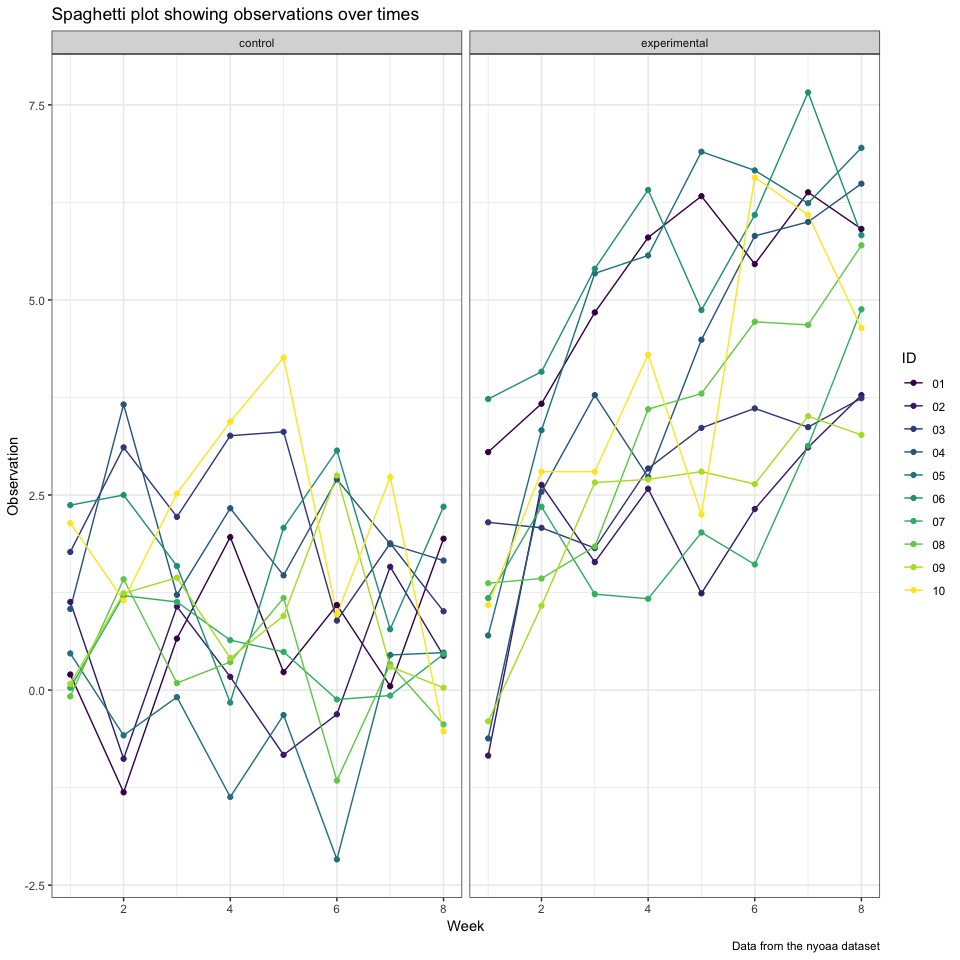
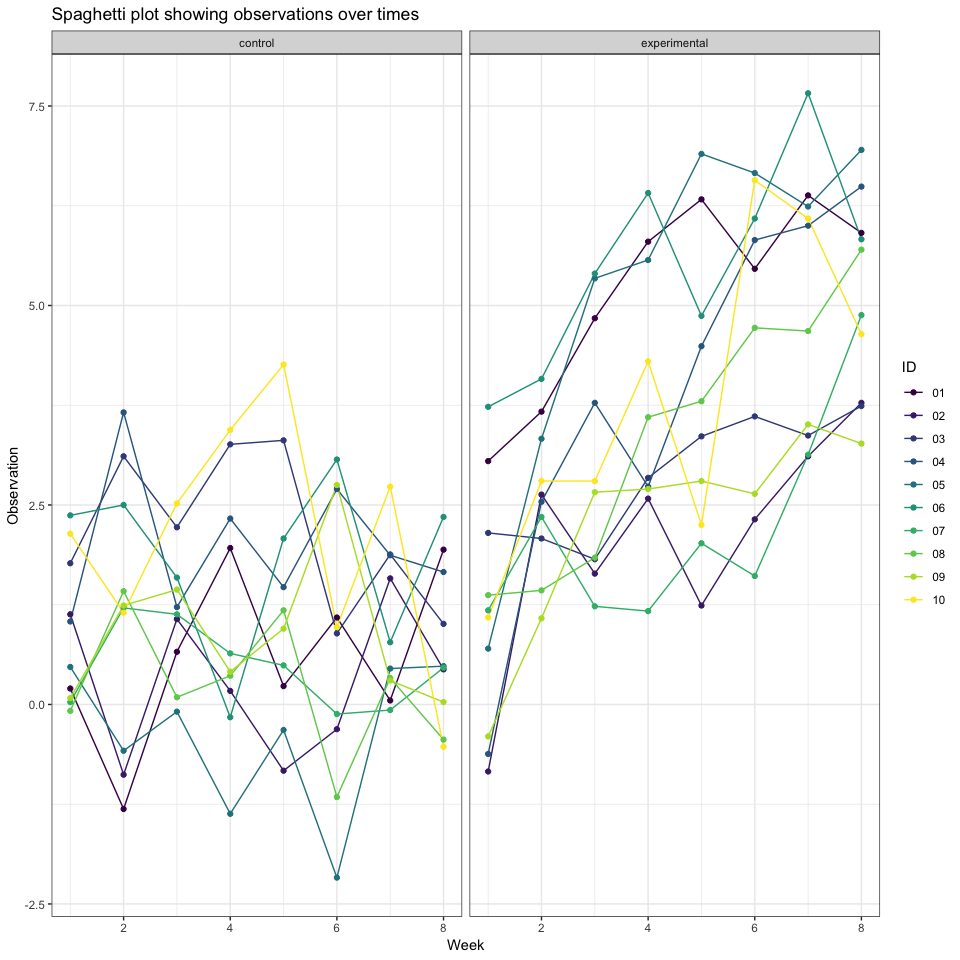
completed plot

diff --git a/hw5_deg2163.md b/hw5_deg2163.md
@@ -4,8 +4,6 @@ Diana Ballesteros Gonzalez
 11/7/2018
 
 ``` r
-knitr::opts_chunk$set(echo = TRUE)
-
 library(tidyverse)
 ```
 
@@ -21,6 +19,23 @@ library(tidyverse)
     ## ✖ dplyr::lag()    masks stats::lag()
 
 ``` r
+library(rvest)
+```
+
+    ## Loading required package: xml2
+
+    ## 
+    ## Attaching package: 'rvest'
+
+    ## The following object is masked from 'package:purrr':
+    ## 
+    ##     pluck
+
+    ## The following object is masked from 'package:readr':
+    ## 
+    ##     guess_encoding
+
+``` r
 set.seed(1)
 
 knitr::opts_chunk$set(
@@ -33,12 +48,6 @@ theme_set(theme_bw() + theme(legend.position = "bottom"))
 ```
 
 ### **Problem 1**
-
-This zip file contains data from a longitudinal study that included a control arm and an experimental arm. Data for each participant is included in a separate file, and file names include the subject ID and arm.
-
-Create a tidy dataframe containing data from all participants, including the subject ID, arm, and observations over time:
-
-Tidy the result; manipulate file names to include control arm and subject ID, make sure weekly observations are “tidy”, and do any other tidying that’s necessary Make a spaghetti plot showing observations on each subject over time, and comment on differences between groups.
 
 ``` r
 #Tidying the data
@@ -63,8 +72,7 @@ tidy_problem_1_df %>%
   labs(
     title = "Spaghetti plot showing observations over times",
     x = "Week",
-    y = "Observation",
-    caption = "Data from the nyoaa dataset"
+    y = "Observation"
   ) + 
   viridis::scale_color_viridis(
     name = "ID", 
@@ -109,125 +117,59 @@ homicide_data =
 Total number of homicides
 
 ``` r
+total_num_homicides_df = 
 homicide_data %>% 
   group_by(city_state) %>% 
-  summarize(total_num_homicides = n()) %>% 
-  knitr::kable()
+  summarize(total_num_homicides = n()) 
 ```
-
-| city\_state        |  total\_num\_homicides|
-|:-------------------|----------------------:|
-| Albuquerque, NM    |                    378|
-| Atlanta, GA        |                    973|
-| Baltimore, MD      |                   2827|
-| Baton Rouge, LA    |                    424|
-| Birmingham, AL     |                    800|
-| Boston, MA         |                    614|
-| Buffalo, NY        |                    521|
-| Charlotte, NC      |                    687|
-| Chicago, IL        |                   5535|
-| Cincinnati, OH     |                    694|
-| Columbus, OH       |                   1084|
-| Dallas, TX         |                   1567|
-| Denver, CO         |                    312|
-| Detroit, MI        |                   2519|
-| Durham, NC         |                    276|
-| Fort Worth, TX     |                    549|
-| Fresno, CA         |                    487|
-| Houston, TX        |                   2942|
-| Indianapolis, IN   |                   1322|
-| Jacksonville, FL   |                   1168|
-| Kansas City, MO    |                   1190|
-| Las Vegas, NV      |                   1381|
-| Long Beach, CA     |                    378|
-| Los Angeles, CA    |                   2257|
-| Louisville, KY     |                    576|
-| Memphis, TN        |                   1514|
-| Miami, FL          |                    744|
-| Milwaukee, wI      |                   1115|
-| Minneapolis, MN    |                    366|
-| Nashville, TN      |                    767|
-| New Orleans, LA    |                   1434|
-| New York, NY       |                    627|
-| Oakland, CA        |                    947|
-| Oklahoma City, OK  |                    672|
-| Omaha, NE          |                    409|
-| Philadelphia, PA   |                   3037|
-| Phoenix, AZ        |                    914|
-| Pittsburgh, PA     |                    631|
-| Richmond, VA       |                    429|
-| Sacramento, CA     |                    376|
-| San Antonio, TX    |                    833|
-| San Bernardino, CA |                    275|
-| San Diego, CA      |                    461|
-| San Francisco, CA  |                    663|
-| Savannah, GA       |                    246|
-| St. Louis, MO      |                   1677|
-| Stockton, CA       |                    444|
-| Tampa, FL          |                    208|
-| Tulsa, AL          |                      1|
-| Tulsa, OK          |                    583|
-| Washington, DC     |                   1345|
 
 Number of unsolved homicides
 
 ``` r
+num_unsolved_homicides_df = 
 homicide_data %>% 
   filter(disposition == "Closed without arrest" | disposition == "Open/No arrest") %>% 
   group_by(city_state) %>% 
-  summarize(num_unsolved_homicides = n()) %>% 
-  knitr::kable()
+  summarize(num_unsolved_homicides = n()) 
 ```
 
-| city\_state        |  num\_unsolved\_homicides|
-|:-------------------|-------------------------:|
-| Albuquerque, NM    |                       146|
-| Atlanta, GA        |                       373|
-| Baltimore, MD      |                      1825|
-| Baton Rouge, LA    |                       196|
-| Birmingham, AL     |                       347|
-| Boston, MA         |                       310|
-| Buffalo, NY        |                       319|
-| Charlotte, NC      |                       206|
-| Chicago, IL        |                      4073|
-| Cincinnati, OH     |                       309|
-| Columbus, OH       |                       575|
-| Dallas, TX         |                       754|
-| Denver, CO         |                       169|
-| Detroit, MI        |                      1482|
-| Durham, NC         |                       101|
-| Fort Worth, TX     |                       255|
-| Fresno, CA         |                       169|
-| Houston, TX        |                      1493|
-| Indianapolis, IN   |                       594|
-| Jacksonville, FL   |                       597|
-| Kansas City, MO    |                       486|
-| Las Vegas, NV      |                       572|
-| Long Beach, CA     |                       156|
-| Los Angeles, CA    |                      1106|
-| Louisville, KY     |                       261|
-| Memphis, TN        |                       483|
-| Miami, FL          |                       450|
-| Milwaukee, wI      |                       403|
-| Minneapolis, MN    |                       187|
-| Nashville, TN      |                       278|
-| New Orleans, LA    |                       930|
-| New York, NY       |                       243|
-| Oakland, CA        |                       508|
-| Oklahoma City, OK  |                       326|
-| Omaha, NE          |                       169|
-| Philadelphia, PA   |                      1360|
-| Phoenix, AZ        |                       504|
-| Pittsburgh, PA     |                       337|
-| Richmond, VA       |                       113|
-| Sacramento, CA     |                       139|
-| San Antonio, TX    |                       357|
-| San Bernardino, CA |                       170|
-| San Diego, CA      |                       175|
-| San Francisco, CA  |                       336|
-| Savannah, GA       |                       115|
-| St. Louis, MO      |                       905|
-| Stockton, CA       |                       266|
-| Tampa, FL          |                        95|
-| Tulsa, OK          |                       193|
-| Washington, DC     |                       589|
+``` r
+all_df = 
+  left_join(num_unsolved_homicides_df, total_num_homicides_df, by = "city_state")
+```
+
+``` r
+prop_function = function(x,y) {
+    prop.test(x = x,n = y) %>% 
+    broom::tidy() %>% 
+    select(estimate, conf.low, conf.high)
+}
+
+homicides_total = 
+  map2(.x = all_df$num_unsolved_homicides, 
+       .y = all_df$total_num_homicides,
+       ~prop_function(.x, .y)) %>% 
+  bind_rows() %>% 
+  bind_cols(all_df) %>% 
+  janitor::clean_names() %>% 
+  select(city_state, num_unsolved_homicides, total_num_homicides, estimate, conf_low, conf_high)
+```
+
+Making a plot for the propotion of homicides
+
+``` r
+homicides_total %>% 
+  mutate(city_state = fct_reorder(city_state, estimate)) %>% 
+  ggplot(aes(x = city_state, y = estimate, color = city_state)) + 
+  geom_point() + 
+  geom_errorbar(aes(ymin = conf_low, ymax = conf_high)) + 
+  labs(
+    title = "Proportion of unsolved homicide cases throughout 50 major US cities",
+    x = "City Name",
+    y = "Proportion of unsolved homicide cases"
+  ) + 
+  theme(legend.position = "none") + 
+  theme(axis.text.x = element_text(angle = 90, size = 7))
+```
+
+<img src="hw5_deg2163_files/figure-markdown_github/unnamed-chunk-8-1.png" width="90%" />
